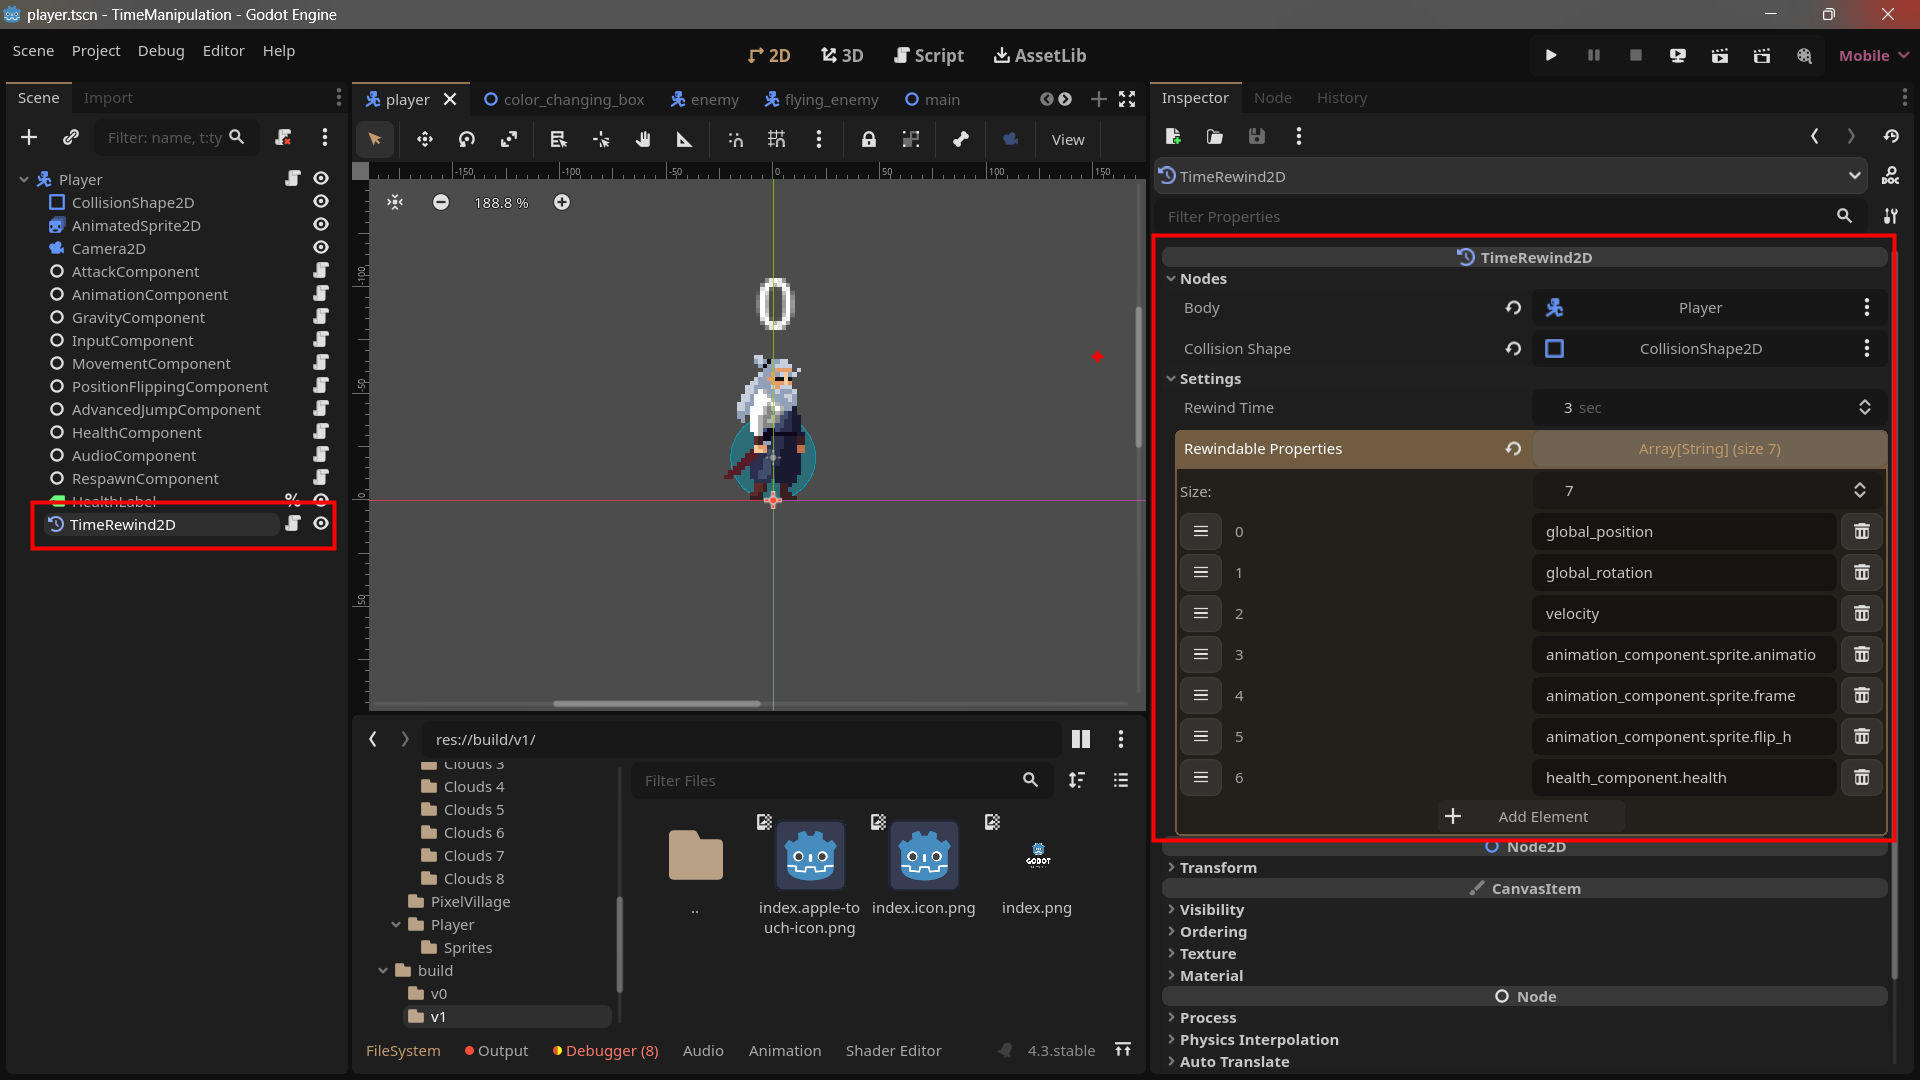
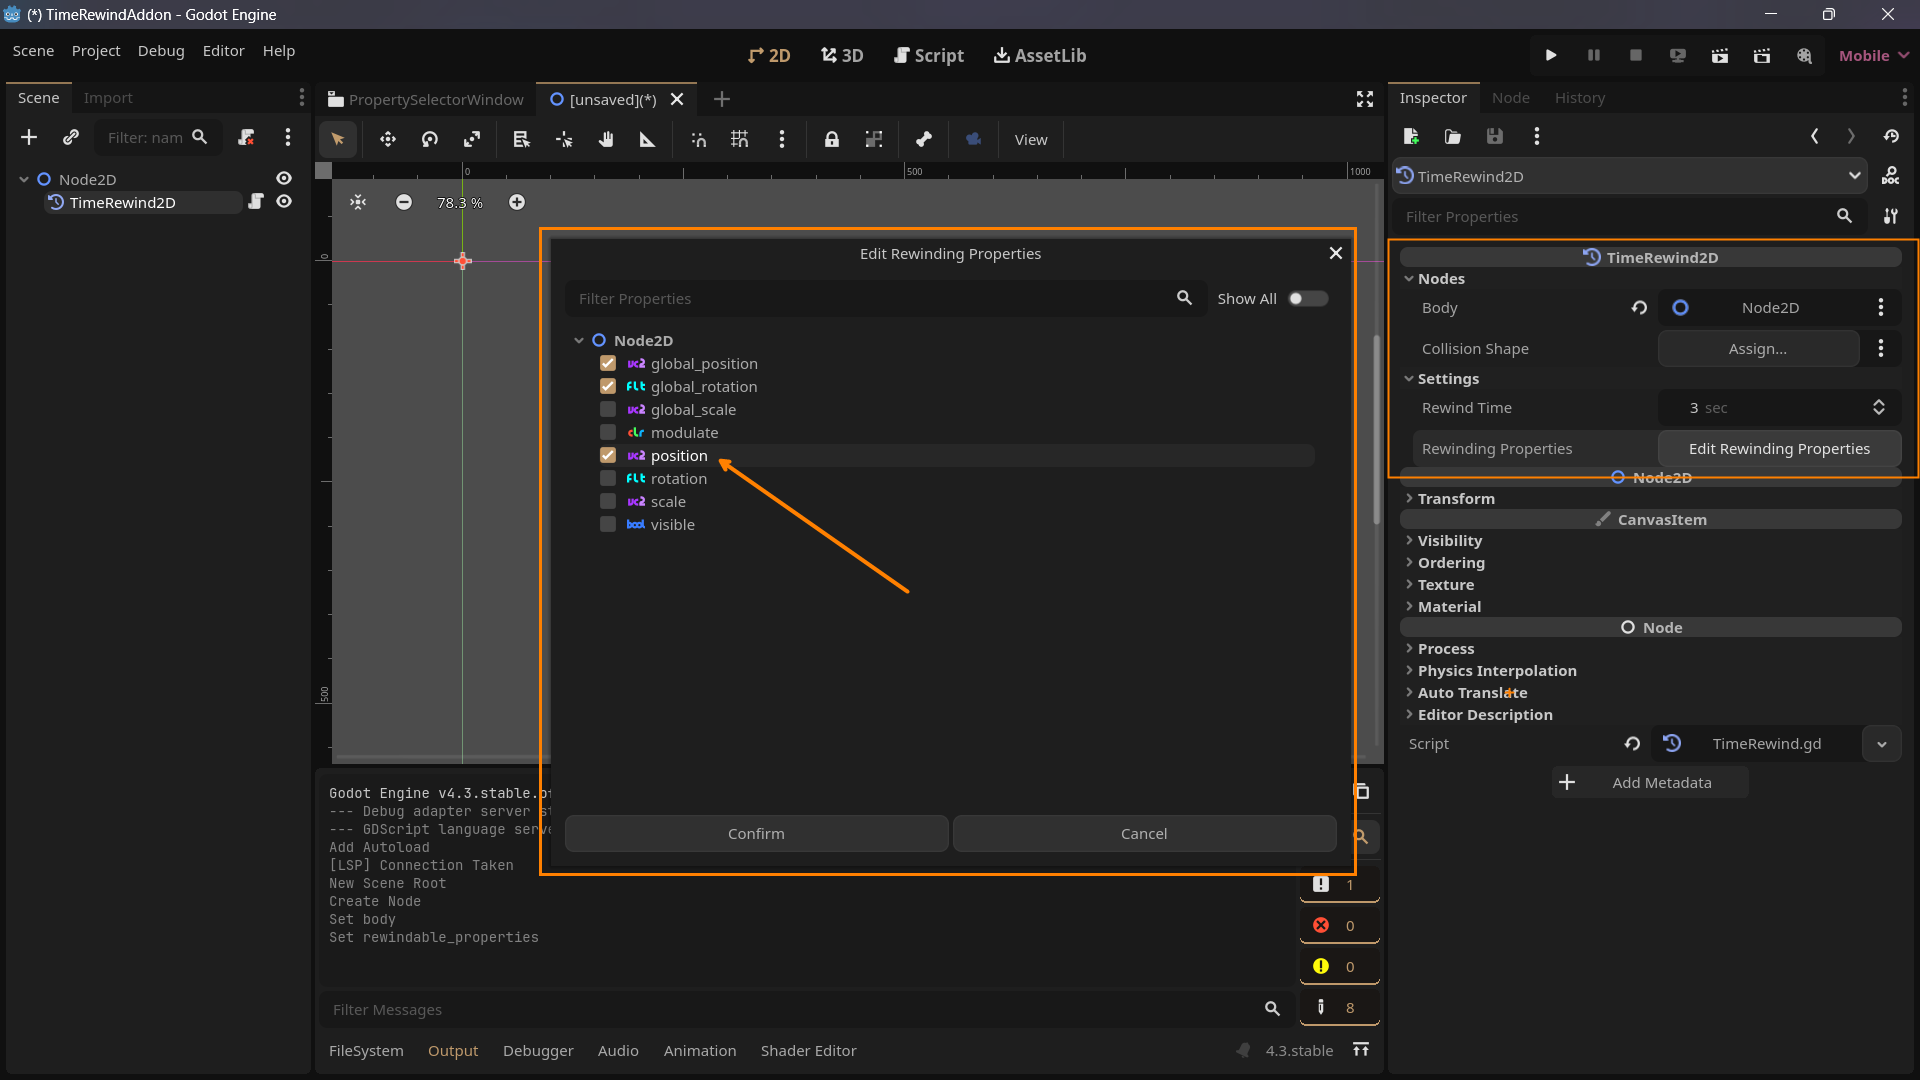
chore: updated readme docs

diff --git a/README.md b/README.md
@@ -23,7 +23,7 @@ This plugin adds powerful time manipulation mechanics to your Godot projects, in
 ## Installation
 
 1. **Download the Plugin**:
-   - Download the `TimeRewind2D` plugin from the Godot Asset Library or directly from the [GitHub repository](https://github.com/ImTani/godot-time-rewind-2d/releases).
+   - Download the `TimeRewind2D` plugin from the Godot Asset Library or directly from the [Github Releases](https://github.com/ImTani/godot-time-rewind-2d/releases).
 
 2. **Install the Plugin**:
    - Extract the downloaded files into your project's `res://addons/` directory.
@@ -56,7 +56,9 @@ This plugin adds powerful time manipulation mechanics to your Godot projects, in
    - Assign the `body` export to the `Node2D` you want to rewind.
    - Assign the `collision_shape` export to the corresponding `CollisionShape2D`.
    - Set the `rewind_time` to the desired duration in seconds.
-   - Populate the `rewindable_properties` array with the properties of the `body` that you want to rewind (e.g., `"global_position"`, `"rotation_degrees"`).
+   - Click on `Edit Rewinding Properties` button in the inspector to open the property selector.
+   - Select all relevant properties through the selector.
+   - Click confirm to save the changes.
 
   ![TimeRewind2D Node Screenshot](https://raw.githubusercontent.com/ImTani/godot-time-rewind-2d/main/docs/media/time_rewind_2d.png)
 
